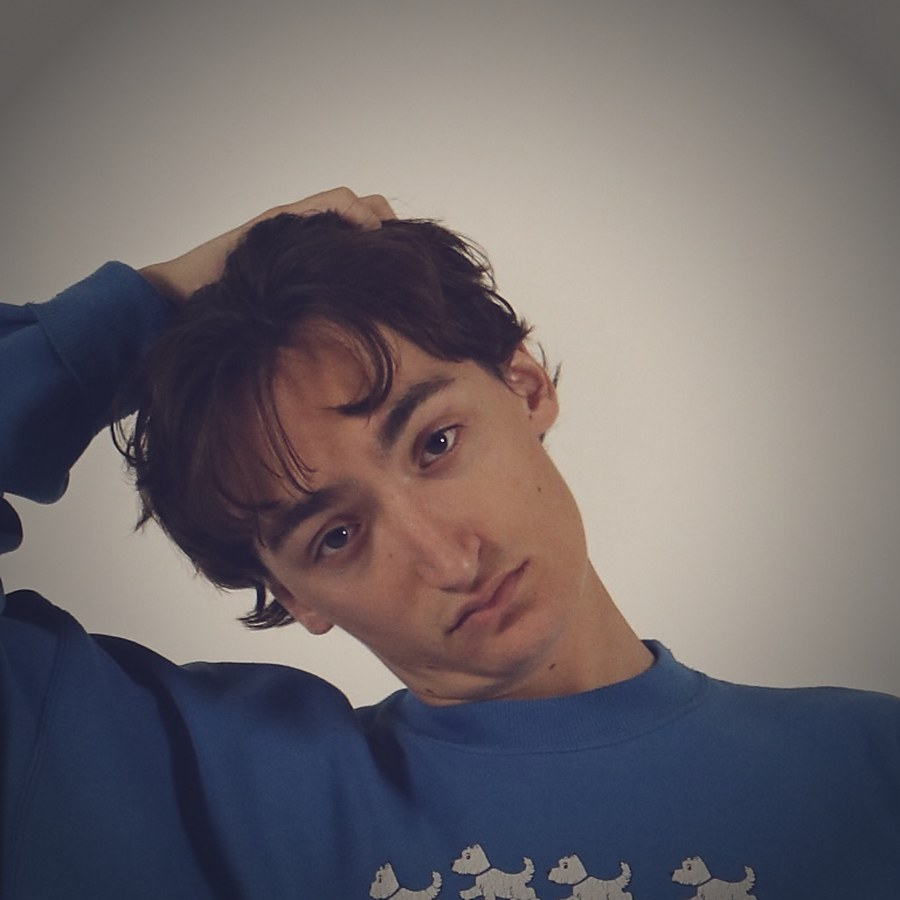
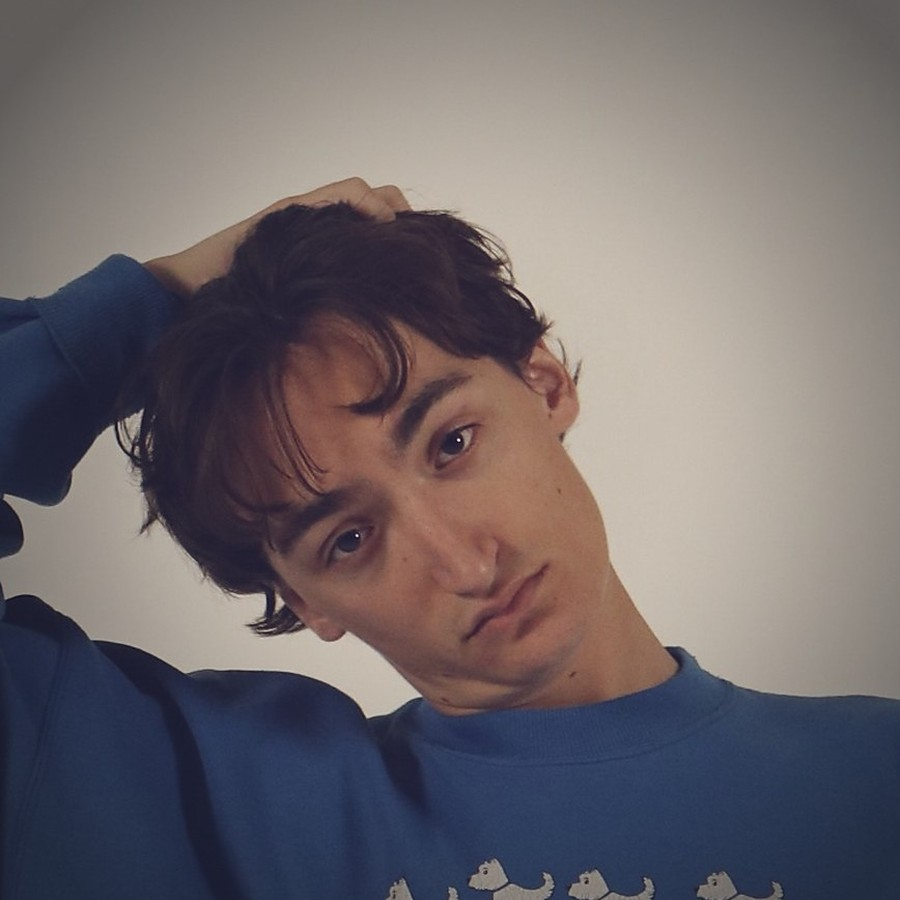
Add Jason Shablik testimonial, restore Paul's full quote, 2-up wall

diff --git a/index.html b/index.html
@@ -644,6 +644,51 @@ footer {
   .wall-face-lg { width: 132px; height: 132px; flex-basis: 132px; }
 }
 
+/* two-up wall (used while there are exactly two confirmed testimonials) */
+.wall-duo {
+  display: grid; grid-template-columns: repeat(2, 1fr);
+  gap: 20px; margin-top: 44px; max-width: 1000px;
+}
+.wall-duo-card {
+  display: flex; flex-direction: column;
+  padding: clamp(28px, 3vw, 38px);
+  background: var(--surface); border: 1px solid var(--line); border-radius: 8px;
+  position: relative; overflow: hidden;
+}
+.wall-duo-card::before {
+  content: ''; position: absolute; inset: 0; pointer-events: none;
+  background: radial-gradient(ellipse 70% 90% at 12% 0%, rgba(155,109,255,0.10), transparent 62%);
+}
+.wall-duo-card > * { position: relative; z-index: 2; }
+.wall-face-md {
+  width: 96px; height: 96px; margin-bottom: 24px;
+  border-radius: 50%; object-fit: cover; object-position: 50% 34%;
+  border: 1px solid rgba(155,109,255,0.28);
+  box-shadow: 0 0 0 5px rgba(155,109,255,0.05), 0 8px 24px rgba(0,0,0,0.5);
+}
+.wall-quote-md {
+  font-family: 'Barlow', sans-serif;
+  font-size: clamp(19px, 1.55vw, 22px); font-weight: 300; line-height: 1.62;
+  color: rgba(237,240,244,0.9); margin-bottom: 24px; flex: 1;
+}
+.wall-quote-md::before {
+  content: '\201C'; color: var(--purple);
+  font-size: 1.6em; line-height: 0; vertical-align: -0.28em; margin-right: 0.1em;
+}
+.wall-name-md {
+  font-family: 'Barlow Condensed', sans-serif; font-weight: 700;
+  font-size: 19px; letter-spacing: 0.06em; text-transform: uppercase; color: var(--white);
+}
+.wall-role-md {
+  font-size: 12px; letter-spacing: 0.16em; text-transform: uppercase;
+  color: var(--muted); margin-top: 5px; line-height: 1.6;
+}
+.wall-role-md a { color: var(--purple); text-decoration: none; }
+.wall-role-md a:hover { text-decoration: underline; }
+@media (max-width: 860px) {
+  .wall-duo { grid-template-columns: 1fr; }
+}
+
 .wall-watch {
   display: inline-flex; align-items: center; gap: 8px; margin-top: 18px;
   font-family: 'Barlow Condensed', sans-serif; font-weight: 700;
@@ -1281,9 +1326,11 @@ footer {
 
   <!-- ═══════════════════════════════════════
        IN USE — real quotes only. See TESTIMONIAL-OUTREACH.md.
-       Currently one confirmed quote, so this renders as a single
-       featured quote. When 3+ land, swap .wall-feature for .wall-grid
-       and use .wall-card children (CSS for both is already below).
+       Two confirmed quotes, so this renders as .wall-duo (2-up).
+       One quote  → .wall-feature (single large card)
+       Two quotes → .wall-duo     ← current
+       3+ quotes  → .wall-grid with .wall-card children
+       CSS for all three is already in the stylesheet above.
   ════════════════════════════════════════ -->
   <section class="section" id="users">
     <div class="reveal">
@@ -1292,20 +1339,35 @@ footer {
       <p class="section-sub">Producers and engineers who ran ToneLab on real material before launch. All beta testers received a free license.</p>
     </div>
 
-    <div class="wall-feature reveal">
-      <img class="wall-face-lg" src="/wall/paul.jpg" width="480" height="480" loading="lazy"
-           alt="Paul Clasen, who designed ToneLab's factory presets">
-      <div>
-        <blockquote class="wall-quote-lg">It lets you get so accurate with what signal is actually getting delayed.</blockquote>
-        <div class="wall-attr-lg">
-          <div class="wall-name-lg">Paul Clasen</div>
-          <div class="wall-role-lg">
+    <div class="wall-duo reveal">
+
+      <div class="wall-duo-card">
+        <img class="wall-face-md" src="/wall/paul.jpg" width="480" height="480" loading="lazy"
+             alt="Paul Clasen, who designed ToneLab's factory presets">
+        <blockquote class="wall-quote-md">This is my new favorite delay plugin! It lets you get so accurate with what signal is actually getting delayed.</blockquote>
+        <div class="wall-attr-md">
+          <div class="wall-name-md">Paul Clasen</div>
+          <div class="wall-role-md">
             Designed ToneLab's factory presets ·
             <a href="https://www.instagram.com/poi_sounds/" target="_blank" rel="noopener">@poi_sounds</a>
           </div>
           <a class="wall-watch" href="/tonelab.html#demo">Watch Paul's walkthrough <span>→</span></a>
         </div>
       </div>
+
+      <div class="wall-duo-card">
+        <img class="wall-face-md" src="/wall/jason.jpg" width="480" height="480" loading="lazy"
+             alt="Jason Shablik">
+        <blockquote class="wall-quote-md">A little chorus in the mids, distortion at the top, delay in a couple of different frequency bands. Something like that used to take multiple sends, EQs, and plugins. Vector DSP lets me do it all in a single plugin. Simplifying execution without compromising my ideas.</blockquote>
+        <div class="wall-attr-md">
+          <div class="wall-name-md">Jason Shablik</div>
+          <div class="wall-role-md">
+            Sound designer &amp; audio post engineer ·
+            <a href="https://jasonsound.com" target="_blank" rel="noopener">jasonsound.com</a>
+          </div>
+        </div>
+      </div>
+
     </div>
   </section>
 

diff --git a/TESTIMONIAL-OUTREACH.md b/TESTIMONIAL-OUTREACH.md
@@ -17,8 +17,15 @@ So the ask has to hand them the shape of the answer. Every message below does th
 
 ## Already in hand
 
-**Paul Clasen** — *"This is my new favorite delay plugin! It lets you get so accurate with what signal is actually getting delayed."*
-Use the second sentence only; "favorite delay plugin" is the interchangeable half. Credit as "Designed ToneLab's factory presets" — that's the strongest attribution of anyone on this list. His card is pre-filled in `index.html` but the section stays commented out until he confirms in writing. **Still needed from Paul:** written OK on the quote, on being named, on the photo, and separately on the demo video.
+**Paul Clasen — LIVE.** *"This is my new favorite delay plugin! It lets you get so accurate with what signal is actually getting delayed."*
+Credited "Designed ToneLab's factory presets · @poi_sounds" — the strongest attribution of anyone on this list. Card also links to his walkthrough at `/tonelab.html#demo`.
+*Aug 13:* shipped with the **second sentence only** — as the page's only quote, "favorite delay plugin" would have miscategorised a five-lane multi-FX as a delay plugin.
+*Aug 21:* **first sentence restored.** Jason's quote now carries the multi-FX framing, so the miscategorisation risk is gone and Paul's line reads warmer at full length.
+
+**Jason Shablik — LIVE (Aug 21 2026).** *"A little chorus in the mids, distortion at the top, delay in a couple of different frequency bands. Something like that used to take multiple sends, EQs, and plugins. Vector DSP lets me do it all in a single plugin. Simplifying execution without compromising my ideas."*
+All four sentences kept — every one is load-bearing. Note he says **"Vector DSP" where he means ToneLab**; left verbatim, correcting it would need his sign-off. Credited "Sound designer & audio post engineer · jasonsound.com" (role from his own LinkedIn headline; linked to his site rather than @jasonsound on Instagram because the site was verifiable). Photo `wall/jason.jpg`, cropped from the half-body shot he sent.
+
+**Wall layout:** `#users` on `index.html` has three modes in CSS — `.wall-feature` (1 quote), `.wall-duo` (2 quotes, current), `.wall-grid` + `.wall-card` (3+). One more lands and it moves to `.wall-grid`.
 
 ---
 
